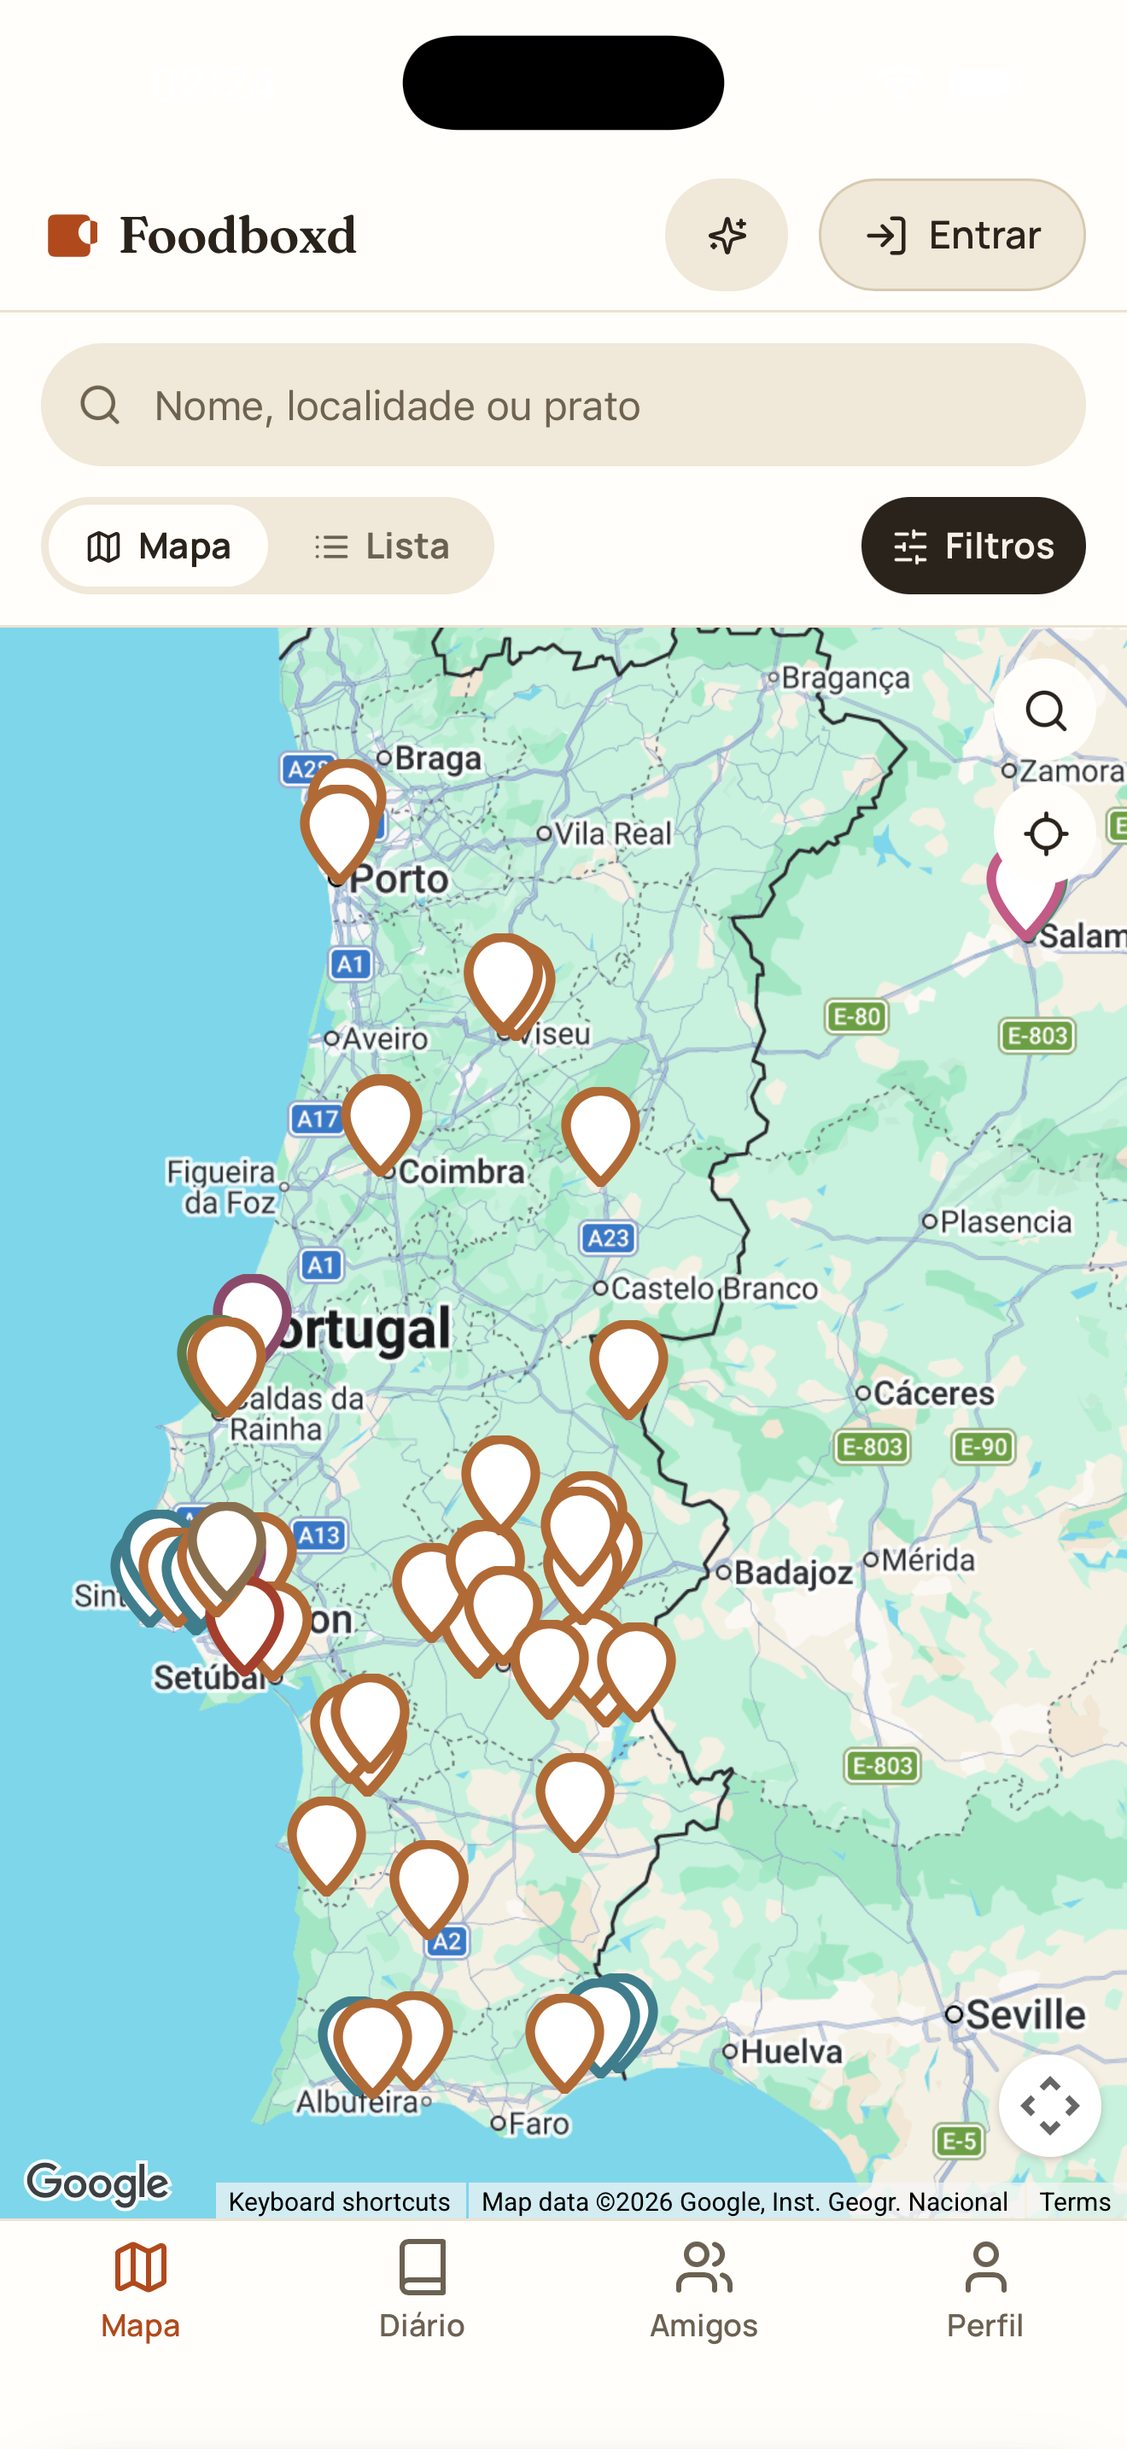
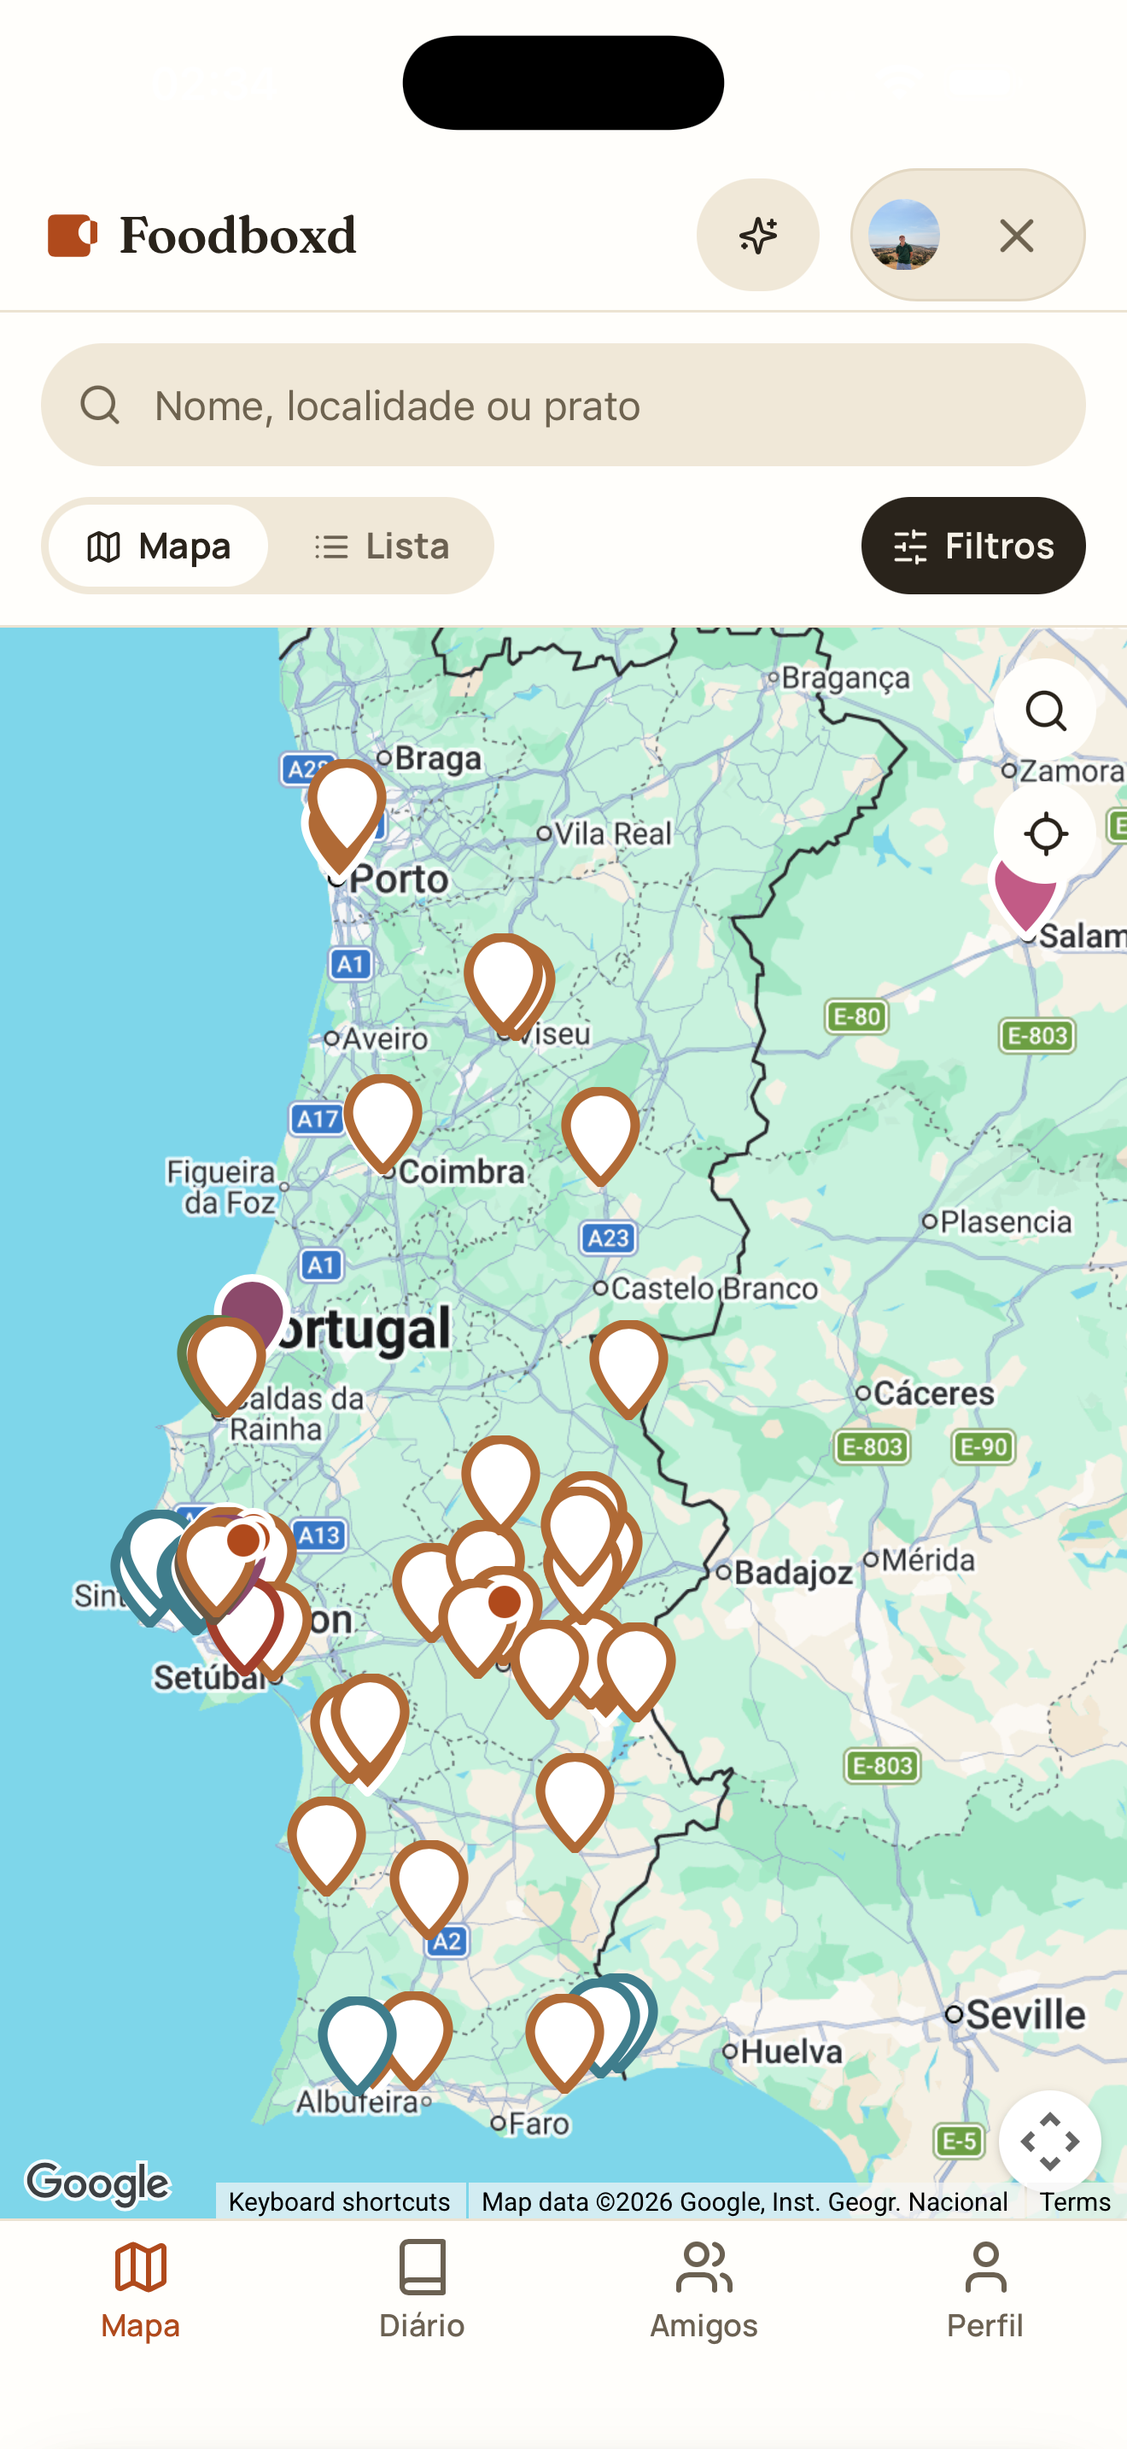
A página de ajuda, mais dois screenshots, e o Support URL decidido
O dono deixou a decisão do Support URL ao agente. A decisão foi não usar o
atalho: apontá-lo para /privacidade obriga quem tem um problema a ler um texto
legal, e nota-se. Existe agora /ajuda, que responde ao que uma pessoa presa
realmente pergunta — preciso de conta, entrei pela Google e perdi o que tinha
na Apple, porque me pede a localização, quem vê o que escrevo, como denuncio,
como apago a conta — com o email em cima, antes de tudo. Faz de caminho um
segundo serviço: a diretriz 1.2 exige contacto publicado, e agora há um.

E com a conta real no simulador grande apareceram os dois screenshots que
faltavam, que são os melhores dos seis:

  02-pergunta-me   a IA a responder, a citar o perfil de gosto de quem
                   pergunta e a dar distâncias reais (2 km, 1 km)
  03-diario        "16 restaurantes · 10 críticas · 18 pratos", com as fotos

O 01-mapa foi refeito com sessão: os pins preenchidos mostram que é um diário e
não um directório. A ordem dos seis não é decorativa — na App Store os dois
primeiros aparecem nos resultados de pesquisa sem ninguém abrir a página.

Fica escrito um aviso que é do dono decidir: o 2 e o 3 mostram restaurantes
reais que ele visitou e um texto que cita o gosto dele. Numa montra pública
isso é uma escolha.

ITSAppUsesNonExemptEncryption no ios-info.json, e o tipo importava. O script
escrevia tudo como string, e "false" num plist é um valor presente que a Apple
[…]

diff --git a/ajuda.html b/ajuda.html
@@ -1,0 +1,209 @@
+<!DOCTYPE html>
+<!--
+  Página de ajuda do Foodboxd — o *Support URL* da App Store Connect.
+
+  Porque existe, e porque não é a de privacidade: o campo é obrigatório, e a
+  saída fácil era apontá-lo para /privacidade, que já tem o email. Mas quem
+  carrega em "Support" quer resolver uma coisa, não ler um texto legal — e um
+  atalho desses nota-se.
+
+  Faz também um segundo serviço, que a diretriz 1.2 exige: contacto publicado
+  para quem quiser reportar conteúdo ou pedir ajuda com uma conta.
+
+  Mesma estrutura da /privacidade: autónoma, sem o css/style.css (que é
+  construído à volta da casca da app), com os tokens que precisa.
+-->
+<html lang="pt-PT">
+<head>
+<meta charset="utf-8" />
+<meta name="viewport" content="width=device-width, initial-scale=1, viewport-fit=cover" />
+<title>Ajuda · Foodboxd</title>
+<meta name="description" content="Perguntas frequentes do Foodboxd e como falar connosco." />
+<link rel="icon" href="icons/favicon.svg" type="image/svg+xml" />
+<link rel="apple-touch-icon" href="icons/apple-touch-icon.png" />
+<link rel="preconnect" href="https://fonts.googleapis.com" />
+<link rel="preconnect" href="https://fonts.gstatic.com" crossorigin />
+<link rel="stylesheet" href="https://fonts.googleapis.com/css2?family=Fraunces:opsz,wght@9..144,400;9..144,600;9..144,700&family=Manrope:wght@400;500;600;700&display=swap" />
+<style>
+  :root {
+    --bg: #f6f1e7;
+    --surface: #fffefb;
+    --surface-2: #f0e8d8;
+    --text: #29231b;
+    --text-muted: #6b6152;
+    --border: #e3d8c3;
+    --primary: #b04a1c;
+    --font-body: "Manrope", system-ui, -apple-system, "Segoe UI", Roboto, sans-serif;
+    --font-display: "Fraunces", Georgia, "Times New Roman", serif;
+  }
+  @media (prefers-color-scheme: dark) {
+    :root {
+      --bg: #17130d;
+      --surface: #211b13;
+      --surface-2: #2b241a;
+      --text: #f2ece0;
+      --text-muted: #b5aa96;
+      --border: #3a3125;
+      --primary: #e8825a;
+    }
+  }
+  * { box-sizing: border-box; }
+  body {
+    margin: 0;
+    background: var(--bg);
+    color: var(--text);
+    font-family: var(--font-body);
+    font-size: 17px;
+    line-height: 1.65;
+    -webkit-text-size-adjust: 100%;
+  }
+  .wrap {
+    max-width: 42rem;
+    margin: 0 auto;
+    padding: max(24px, env(safe-area-inset-top)) 20px calc(48px + env(safe-area-inset-bottom));
+  }
+  header { padding: 8px 0 24px; border-bottom: 1px solid var(--border); margin-bottom: 24px; }
+  .brand { display: flex; align-items: center; gap: 10px; text-decoration: none; color: inherit; }
+  .brand-mark { width: 22px; height: 22px; border-radius: 6px 2px 2px 6px; background: var(--primary); flex: none; }
+  .brand-name { font-family: var(--font-display); font-weight: 700; font-size: 1.25rem; }
+  h1 { font-family: var(--font-display); font-size: 2rem; line-height: 1.15; margin: 24px 0 4px; }
+  h2 { font-family: var(--font-display); font-size: 1.3rem; margin: 40px 0 8px; }
+  h3 { font-size: 1.02rem; margin: 24px 0 2px; }
+  .sub { color: var(--text-muted); margin: 0 0 8px; }
+  a { color: var(--primary); }
+  ul { padding-left: 1.25rem; }
+  li { margin: 6px 0; }
+  .card {
+    background: var(--surface);
+    border: 1px solid var(--border);
+    border-radius: 16px;
+    padding: 16px 18px;
+    margin: 20px 0;
+  }
+  .contacto { font-size: 1.05rem; }
+  footer { margin-top: 48px; padding-top: 20px; border-top: 1px solid var(--border); color: var(--text-muted); font-size: 0.92rem; }
+  code { background: var(--surface-2); padding: 1px 5px; border-radius: 5px; font-size: 0.9em; }
+</style>
+</head>
+<body>
+<div class="wrap">
+
+<header>
+  <a class="brand" href="/"><span class="brand-mark"></span><span class="brand-name">Foodboxd</span></a>
+</header>
+
+<h1>Ajuda</h1>
+<p class="sub">Se não encontrares aqui, escreve — respondemos.</p>
+
+<div class="card contacto">
+  <strong>Falar connosco:</strong>
+  <a href="mailto:pedromouzinho812@gmail.com">pedromouzinho812@gmail.com</a>
+  <p style="margin:8px 0 0; color:var(--text-muted); font-size:0.94rem">
+    É uma pessoa a responder, não um sistema de bilhetes. Diz o que se passou e,
+    se puderes, manda uma fotografia do ecrã — poupa metade das perguntas.
+  </p>
+</div>
+
+<h2>Começar</h2>
+
+<h3>Preciso de conta?</h3>
+<p>
+  Não, para explorar. O mapa, a lista, os filtros e a ficha de cada restaurante
+  — com avaliação, preços, telefone e a especialidade — funcionam sem iniciares
+  sessão. A conta serve para <em>guardares</em>: marcar visitas, avaliar,
+  registar pratos, juntar fotografias e seguir pessoas.
+</p>
+
+<h3>Como entro?</h3>
+<p>
+  Com a Google ou com a Apple. Não há palavra-passe para inventar nem para
+  esquecer.
+</p>
+
+<h3>Entrei com a Google e não vejo o que tinha na Apple</h3>
+<p>
+  São contas separadas, mesmo sendo a mesma pessoa — sobretudo se usaste
+  <em>Ocultar o meu email</em> da Apple, que dá um endereço diferente. Entra pelo
+  mesmo botão da primeira vez e o teu diário está lá. Se te perdeste no meio
+  disto, escreve-nos: dá-se para resolver.
+</p>
+
+<h2>O dia a dia</h2>
+
+<h3>Como registo uma visita?</h3>
+<p>
+  Abre o restaurante e toca em <strong>Registar visita</strong>. Dás estrelas,
+  escreves o que quiseres e registas os pratos. As fotografias juntam-se depois,
+  em <em>Mudar foto</em> na ficha ou no separador <em>A minha experiência</em>.
+</p>
+
+<h3>O que é o «Pergunta-me»?</h3>
+<p>
+  O botão das estrelinhas, no topo. Descreves o que te apetece — «peixe fresco,
+  barato, perto e tranquilo» — e a app sugere, cruzando o que já avaliaste, a tua
+  lista e onde estás.
+</p>
+
+<h3>Porque é que me pede a localização?</h3>
+<p>
+  Só dentro do «Pergunta-me», e só para saber o que está perto. <strong>Nunca ao
+  abrir a app e nunca em segundo plano.</strong> Se recusares, continua a
+  responder — apenas não consegue dizer «perto».
+</p>
+
+<h3>Quem vê o que eu escrevo?</h3>
+<p>
+  As críticas e as fotografias aparecem na ficha do restaurante, com o teu nome.
+  As avaliações, visitas e as notas que escreves numa visita aparecem a quem te
+  segue. O teu perfil de gosto não é mostrado a ninguém. Podes restringir a tua
+  atividade no <strong>Perfil → Quem vê a minha atividade</strong>.
+</p>
+
+<h2>Quando corre mal</h2>
+
+<h3>Vi conteúdo ofensivo</h3>
+<p>
+  Toca no ícone de bandeira ao lado do comentário, ou em <strong>Denunciar</strong>
+  ao abrir uma fotografia. A denúncia chega-nos e é analisada. Na mesma janela
+  podes <strong>bloquear</strong> a pessoa: deixas de ver tudo o que ela publica,
+  e ela não é avisada.
+</p>
+
+<h3>Quero desbloquear alguém</h3>
+<p>
+  <strong>Perfil → Pessoas bloqueadas</strong>. A entrada só aparece se tiveres
+  alguém bloqueado.
+</p>
+
+<h3>Quero apagar a minha conta</h3>
+<p>
+  <strong>Perfil → Apagar conta</strong>, e confirma-se escrevendo
+  <code>APAGAR</code>. Apaga a conta, o perfil, as críticas, avaliações, pratos,
+  visitas, notas e as fotografias — incluindo os ficheiros. Não tem volta.
+</p>
+<p>
+  Os restaurantes que acrescentaste ficam na lista partilhada, porque passaram a
+  ser de toda a gente, mas deixam de estar associados a ti. Um grupo de que eras
+  dono passa para outro membro; se ficar vazio, desaparece.
+</p>
+
+<h3>A app não mostra a versão nova</h3>
+<p>
+  Fecha-a por completo e volta a abrir. Se estiver instalada no ecrã principal,
+  pode ser preciso fazê-lo duas vezes.
+</p>
+
+<h2>Privacidade</h2>
+<p>
+  O que é recolhido, para que serve, com quem é partilhado e como se apaga está
+  todo na <a href="/privacidade">política de privacidade</a>. Não há publicidade,
+  não há seguimento para publicidade, e não há venda de dados.
+</p>
+
+<footer>
+  Foodboxd · <a href="/">foodboxd.pt</a> · <a href="/privacidade">Privacidade</a>
+</footer>
+
+</div>
+</body>
+</html>

diff --git a/sw.js b/sw.js
@@ -6,7 +6,7 @@
 //   - Other static files -> stale-while-revalidate (fast, self-healing).
 //   - Cross-origin (Google Maps/Places/Directions, Firebase) -> network only.
 
-const CACHE = "foodboxd-v86";
+const CACHE = "foodboxd-v87";
 const ASSETS = [
   "./",
   "index.html",

diff --git a/loja/README.md b/loja/README.md
@@ -16,20 +16,26 @@
 Max), que é a que a App Store exige hoje para iPhone. As restantes medidas são
 derivadas por ela, e por isso não é preciso tirá-las.
 
-| Ficheiro | O que mostra | Porquê este |
-| --- | --- | --- |
-| `01-mapa.png` | Portugal inteiro, com os pins espalhados de Braga ao Algarve | É o que a app é à primeira vista, e mostra que não está vazia |
-| `02-lista.png` | «68 RESTAURANTES», cartões com foto, avaliação, preço e especialidade | Prova densidade e qualidade de informação sem ser preciso ler |
-| `03-ficha.png` | Monte d'Açorda: foto, 4.6 (759), €€€, telefone, especialidade | Mostra o que se ganha ao tocar num sítio |
-| `04-filtros.png` | Cozinha, estilo, região, preço | Mostra que a lista se dobra ao que apetece hoje |
+| # | Ficheiro | O que mostra | Porquê este, e por esta ordem |
+| --- | --- | --- | --- |
+| 1 | `01-mapa.png` | Portugal inteiro, pins de Braga ao Algarve, alguns já marcados | É o que a app é à primeira vista, e os pins preenchidos mostram que é *um diário*, não um directório |
+| 2 | `02-pergunta-me.png` | A IA a responder: «Maria Catita · 4.7 (8558) · €€€ · 2 km», a citar o gosto de quem pergunta | **É o que mais distingue a app.** Cita o perfil de gosto e dá distâncias reais |
+| 3 | `03-diario.png` | «16 restaurantes · 10 críticas · 18 pratos», com as fotos | A metade pessoal do produto, e a razão para voltar |
+| 4 | `04-lista.png` | «68 RESTAURANTES», cartões com foto, nota, preço e especialidade | Densidade de informação sem ser preciso ler |
+| 5 | `05-ficha.png` | Monte d'Açorda: foto, 4.6 (759), €€€, telefone, especialidade | O que se ganha ao tocar num sítio |
+| 6 | `06-filtros.png` | Cozinha, estilo, região, preço | A lista dobra-se ao que apetece hoje |
 
-**Todos foram tirados sem sessão iniciada**, de propósito: é o que o revisor vai
-ver, e é o argumento da nota ao revisor — a app vê-se toda sem conta.
+**A ordem não é decorativa:** na App Store, os dois primeiros são os que aparecem
+nos resultados de pesquisa sem ninguém abrir a página. Por isso o mapa abre e o
+«Pergunta-me» vem logo a seguir — é o que ninguém mais faz.
 
-> **O que falta, e é uma escolha:** um quinto ecrã com o diário ou o
-> «Pergunta-me» a responder mostraria a parte pessoal, que é metade do produto.
-> Exige sessão com dados dentro, portanto exige o dono. **Vale a pena** — é o que
-> distingue a app de um directório de restaurantes.
+**Os 1, 4, 5 e 6 foram tirados sem sessão**, que é o que o revisor vê e o que a
+nota ao revisor afirma. O 2 e o 3 exigem conta, e mostram-na com dados reais.
+
+> ⚠ **Repara no que o 2 e o 3 mostram de verdade:** restaurantes que o dono
+> visitou, e um texto da IA que cita o gosto dele por nome. É a conta real. Numa
+> montra pública isso é uma escolha, não um detalhe — se preferires ecrãs com
+> dados neutros, é preciso uma conta de demonstração povoada de propósito.
 
 ---
 
@@ -113,15 +119,20 @@ Feito em Portugal.
 | Categoria secundária | **Travel** | Apanha quem procura onde comer numa viagem |
 | Idioma principal | **Português (Portugal)** | A app é toda em português |
 | Privacy Policy URL | `https://foodboxd.pt/privacidade` | Já está no ar, verificada com HTTP 200 |
-| Support URL | ⚠ **por definir** | Ver abaixo |
+| Support URL | `https://foodboxd.pt/ajuda` | Escrita, ver abaixo |
 | Marketing URL | `https://foodboxd.pt` | Opcional, mas já existe |
 | Sign-in required | **NO** | Medido: a app vê-se toda sem conta (secção 4.4 do handoff) |
 
-> ⚠ **O Support URL é obrigatório e ainda não existe.** Tem de ser uma página
-> onde alguém consiga pedir ajuda. As saídas, por ordem de esforço: apontar para
-> `foodboxd.pt/privacidade`, que já tem o email de contacto (aceite, mas é
-> estranho); ou uma página `foodboxd.pt/ajuda` com três linhas e o mesmo email.
-> **A segunda é meia hora e fica melhor.**
+**✅ A página de ajuda existe** — [`ajuda.html`](../ajuda.html), servida em
+`/ajuda`. O dono deixou a decisão ao agente, e a decisão foi não usar o atalho:
+apontar o *Support* para a política de privacidade é obrigar quem tem um
+problema a ler um texto legal, e nota-se.
+
+Responde ao que uma pessoa presa realmente pergunta — preciso de conta, entrei
+pela Google e perdi o que tinha na Apple, porque me pede a localização, quem vê o
+que escrevo, como denuncio, como apago a conta — e tem o email em cima, antes de
+tudo. Faz de caminho um segundo serviço: **a diretriz 1.2 exige contacto
+publicado**, e agora há um.
 
 ---
 
@@ -157,24 +168,23 @@ Isso cai na isenção habitual. Na prática responde-se que a app usa encriptaç
 e a seguir que é **só encriptação padrão do sistema** (HTTPS/TLS), o que dispensa
 a documentação de exportação.
 
-**Para não ter de responder isto em cada versão**, acrescenta-se ao `Info.plist`:
+**✅ E já não é preciso responder em cada versão.** O
+`ITSAppUsesNonExemptEncryption = false` está no [`ios-info.json`](../ios-info.json),
+versionado como os textos de permissão, e o `scripts/ios-info.mjs` escreve-o no
+`Info.plist` a cada `npm run sync`.
 
-```xml
-<key>ITSAppUsesNonExemptEncryption</key>
-<false/>
-```
-
-> Se o dono quiser, o agente põe isto no `ios-info.json` para ficar versionado,
-> como os textos de permissão — o `Info.plist` é gerado e descartável, e à mão
-> desaparecia no clone seguinte.
+> **O tipo importava, e quase passava.** O script escrevia tudo como *string*, e
+> `"false"` num plist é um valor presente que a Apple lê como verdadeiro — a
+> pergunta voltaria em cada versão, que é o oposto do que a chave existe para
+> fazer. Passou a escrever `bool` quando o valor é booleano. Confirmado com
+> `plutil -p`: `"ITSAppUsesNonExemptEncryption" => false`, sem aspas.
 
 ---
 
 ## O que fica por decidir
 
-1. **O Support URL** — a página de ajuda, ou o atalho para a de privacidade.
-2. **O quinto screenshot** — o diário ou o «Pergunta-me», que exige sessão.
-3. **A descrição** — está escrita, e é a peça que mais merece ser lida devagar.
+1. **Se os screenshots 2 e 3 podem levar dados reais** — ver o aviso lá em cima.
+2. **A descrição** — está escrita, e é a peça que mais merece ser lida devagar.
    O «O QUE NÃO HÁ» no fim é uma aposta deliberada: numa loja cheia de apps que
    vivem de publicidade, dizer que não há nenhuma é o argumento mais forte que
    esta app tem. Se soar a arrogante, corta-se.

diff --git a/HANDOFF-IOS-AGENTE.md b/HANDOFF-IOS-AGENTE.md
@@ -1616,7 +1616,7 @@ quem chegar a seguir lê o repositório, não o chat.
 | — | Conta de teste (4.4) | — | ✅ **não é precisa** — a app vê-se toda sem conta (medido) |
 | — | ⚠ **Contas Apple e Google separadas — já em produção** | dono decide o quê, agente executa | ver abaixo |
 | 7 | A procura numa porta, o ecrã de entrada, o perfil público | decisão do dono | por decidir |
-| 6 | **Metadados da loja** — rascunhados em [`loja/README.md`](loja/README.md), com os 4 screenshots em 1320×2868 | agente escreveu; **dono lê, decide o Support URL e cola** | por aprovar |
+| 6 | **Metadados da loja** — [`loja/README.md`](loja/README.md), 6 screenshots em 1320×2868, ajuda e privacidade escritas | agente fez; **dono lê e cola** | por aprovar |
 
 ### ⚠ Duas contas para a mesma pessoa — e já está no ar
 
